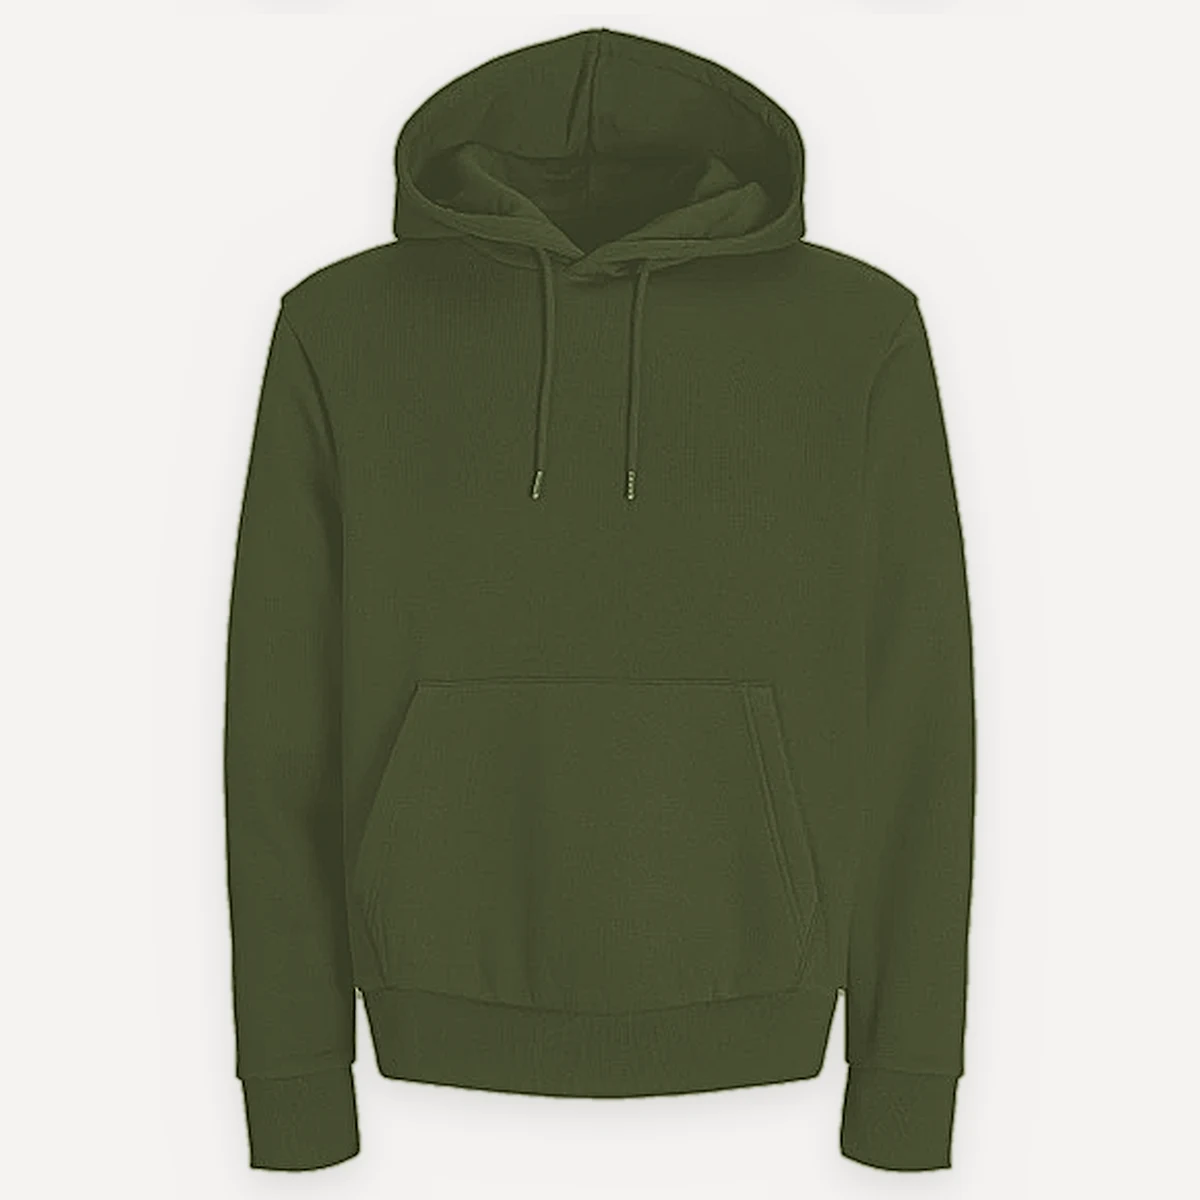
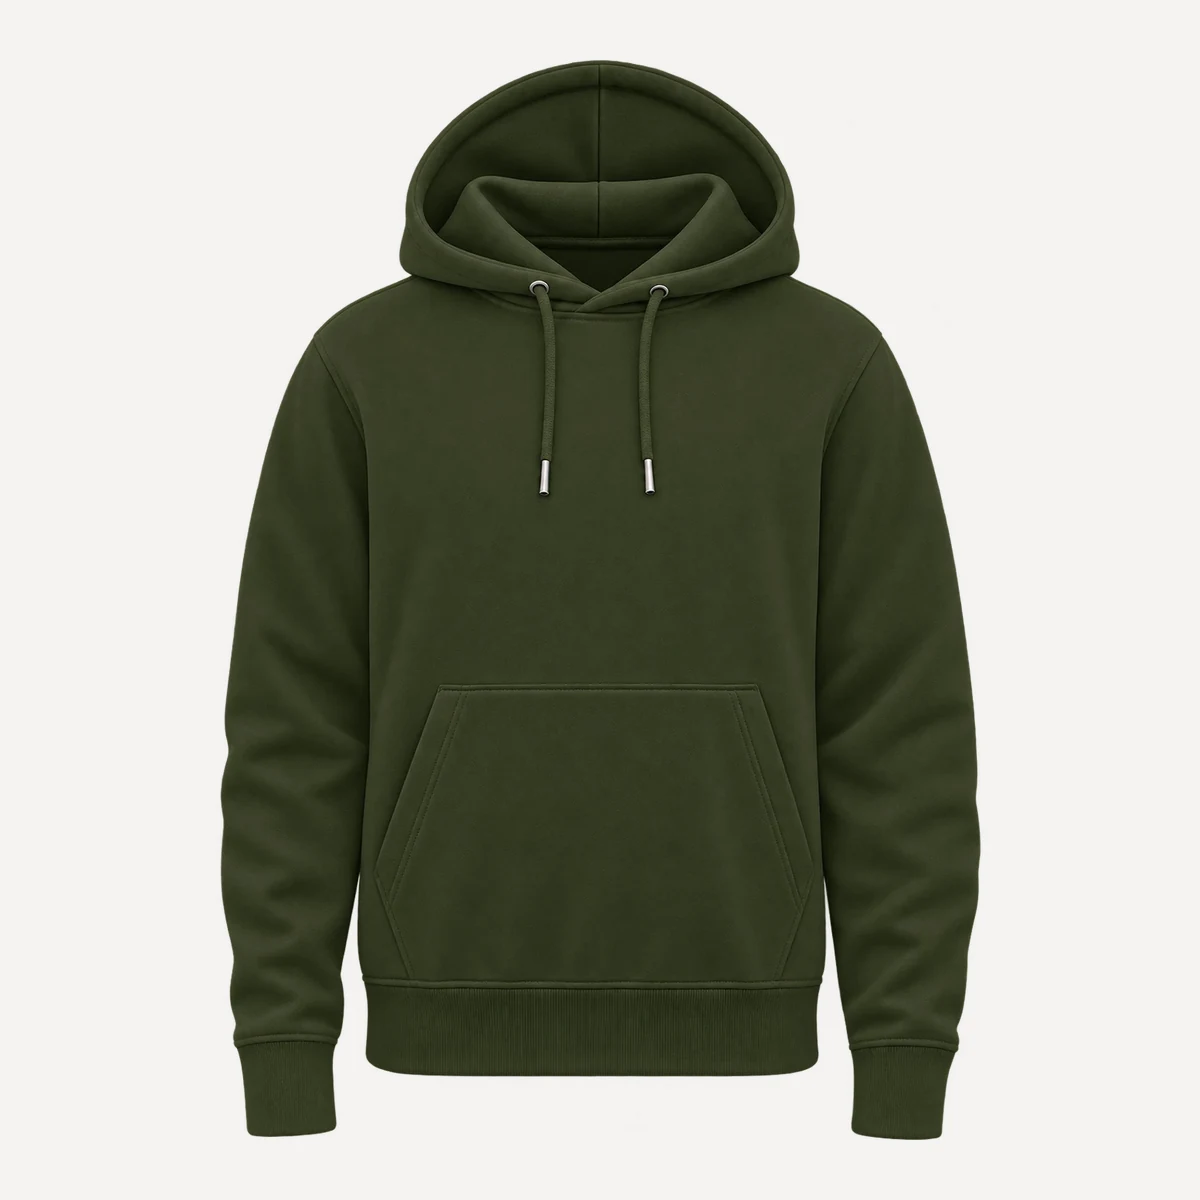
Shop-Gestalter: neue Rohlinge Hoodie (oliv) und Sweatshirt (schwarz) mit eigenen Druckflächen
Claude-Session: https://claude.ai/code/session_01B8pZ582kao9c2vPreqLDn4

Changed region(s): [[0.185, 0.0, 0.8325, 0.9867], [0.4317, 0.3392, 0.4625, 0.4317]]

diff --git a/src/lib/shop/schema.ts b/src/lib/shop/schema.ts
@@ -204,8 +204,9 @@ export const printAreas: Record<GarmentKind, { front: Area; chest: Area; back: A
   tshirt: { front: { x: 37.5, y: 19, w: 25, h: 33 }, chest: { x: 55, y: 21, w: 8, h: 8 }, back: { x: 37.5, y: 16, w: 25, h: 33 } },
   // Polo: Brusttasche rechts im Bild – vorne daher unterhalb der Tasche, Brustlogo auf der anderen Seite
   polo: { front: { x: 37, y: 48, w: 26, h: 27 }, chest: { x: 36, y: 32, w: 9, h: 9 }, back: { x: 37.5, y: 17, w: 25, h: 33 } },
-  hoodie: { front: { x: 39, y: 42, w: 22, h: 12 }, chest: { x: 56, y: 36, w: 8, h: 8 }, back: { x: 36, y: 26, w: 28, h: 28 } },
-  sweatshirt: { front: { x: 38, y: 17, w: 24, h: 24 }, chest: { x: 57, y: 17, w: 9, h: 9 }, back: { x: 37, y: 15, w: 26, h: 28 } },
+  // Hoodie: vorne zwischen Kordelenden und Bauchtasche, hinten unterhalb der Kapuze
+  hoodie: { front: { x: 37.5, y: 42, w: 25, h: 16 }, chest: { x: 56, y: 30, w: 8, h: 8 }, back: { x: 37, y: 31, w: 26, h: 33 } },
+  sweatshirt: { front: { x: 37.5, y: 18, w: 25, h: 33 }, chest: { x: 55, y: 20, w: 8, h: 8 }, back: { x: 37.5, y: 17, w: 25, h: 33 } },
 };
 /** Zentimeter je Prozent Bildbreite (aus Brustweite Größe M ÷ Körperbreite im Foto) */
 export const cmPerPct: Record<GarmentKind, number> = { tshirt: 1.2, polo: 1.1, hoodie: 1.2, sweatshirt: 1.2 };
